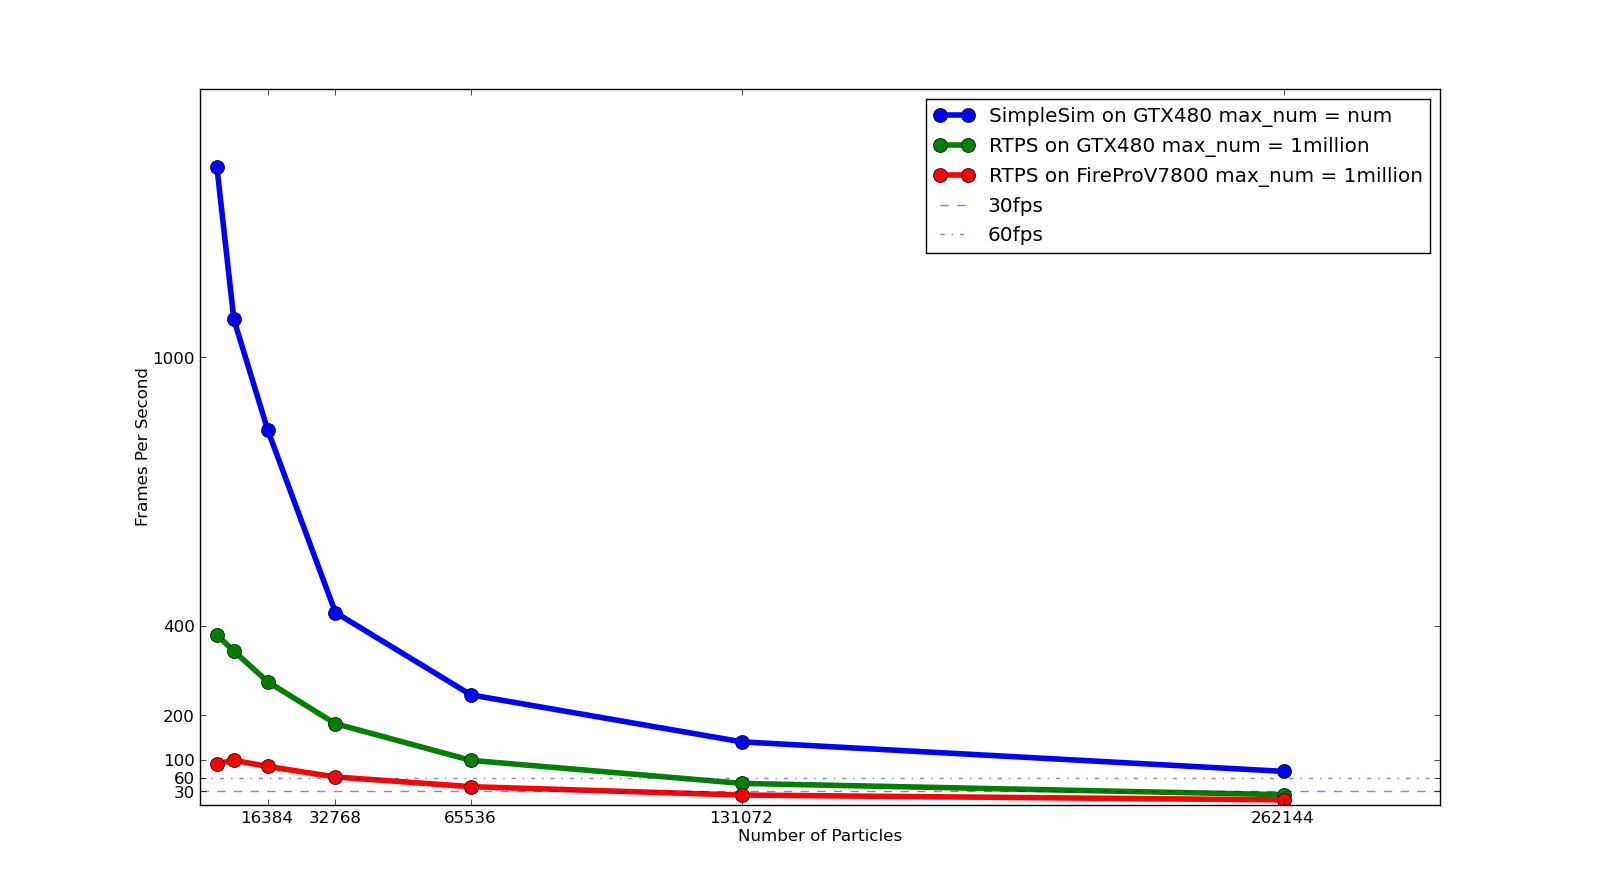
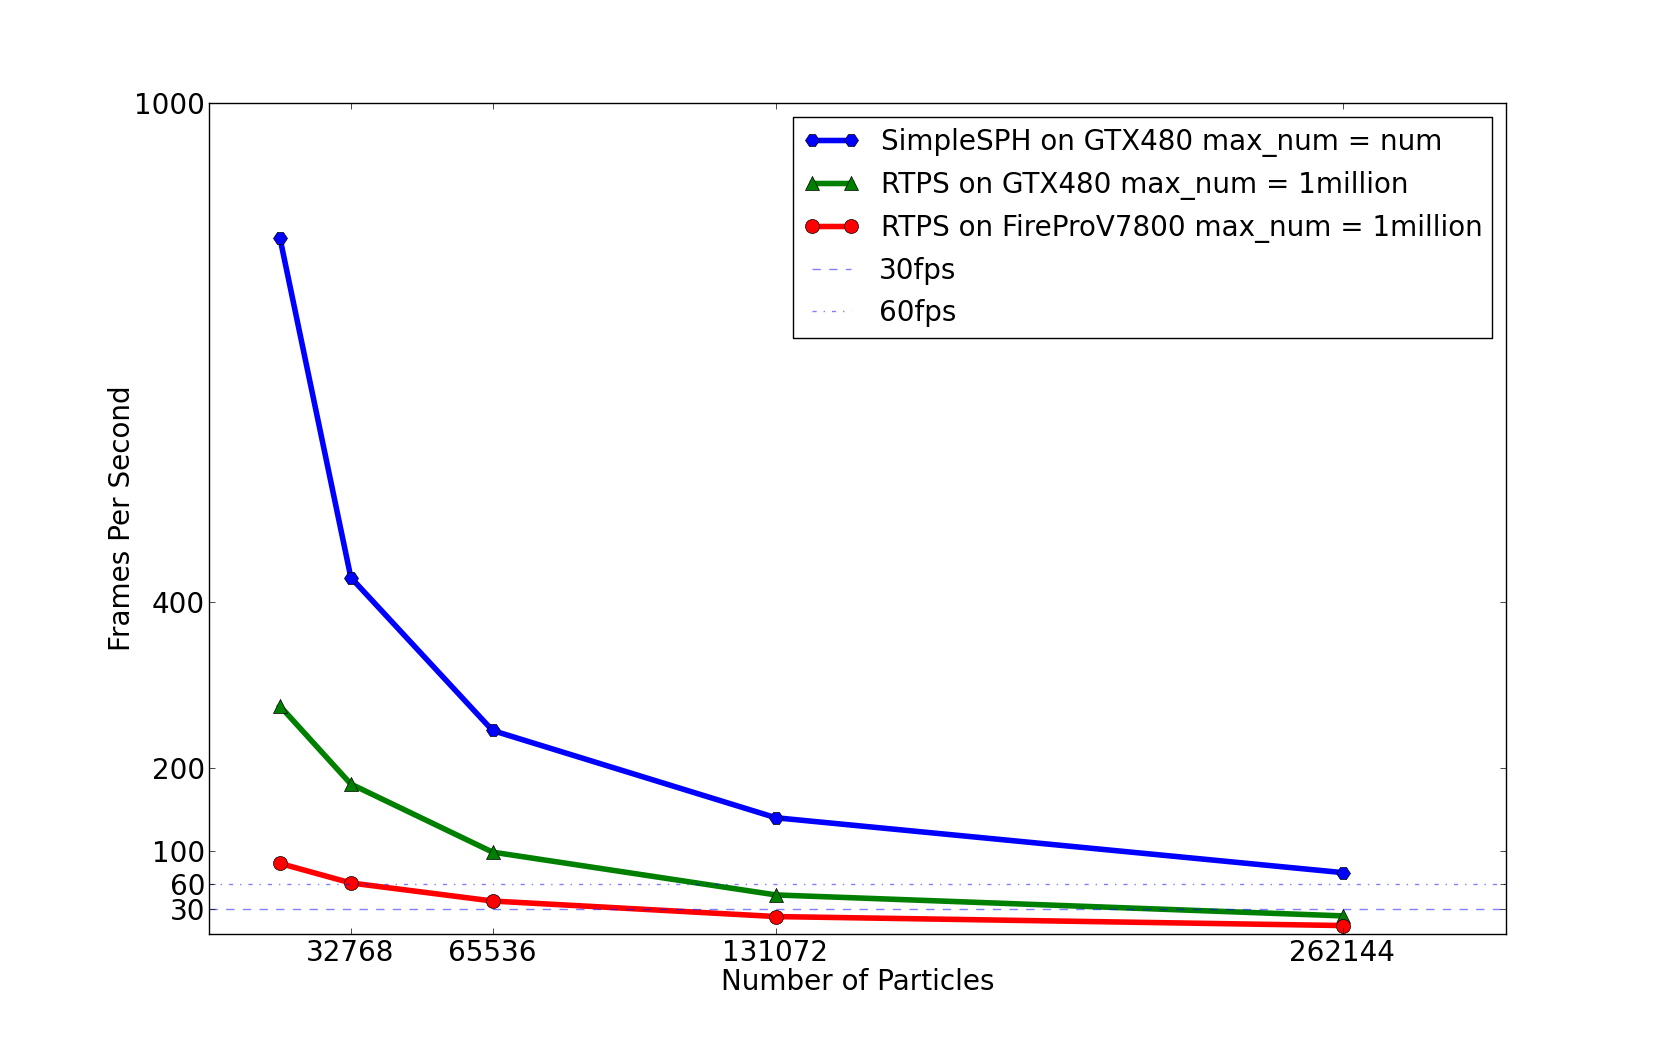
improved graphs for timing

diff --git a/fsutemplate/timings/graph.py b/fsutemplate/timings/graph.py
@@ -2,6 +2,25 @@
 import pickle
 import pylab
 
+from pylab import arange,pi,sin,cos,sqrt
+fig_width_pt = 1200 # Get this from LaTeX using \showthe\columnwidth
+inches_per_pt = 1.0/72.27               # Convert pt to inch
+golden_mean = (sqrt(5)-1.0)/2.0         # Aesthetic ratio
+fig_width = fig_width_pt*inches_per_pt  # width in inches
+fig_height = fig_width*golden_mean      # height in inches
+fig_size =  [fig_width,fig_height]
+params = {'backend': 'WXAgg',
+          'axes.labelsize': 20,
+          'text.fontsize': 20,
+          'legend.fontsize': 20,
+          'xtick.labelsize': 20,
+          'ytick.labelsize': 20,
+          #'text.usetex': True,
+          'figure.figsize': fig_size}
+pylab.rcParams.update(params)
+
+
+
 def ms2fps(ms):
     return 1000./ms
 
@@ -38,21 +57,22 @@ for ms in ati_mill_timings["Update loop"]:
     ati_mill_rtps_fps += [ms2fps(ms)]
 
 
-fps = True 
-nv_kernel = False 
-nv_ati_neighbors = False 
-nv_neighbors = False
+fps = False#True 
+nv_kernel = False#True 
+nv_ati_neighbors = True 
+nv_neighbors = False 
 
 
-num_ticks = [16384, 32768, 65536, 131072, 262144]
+#num_ticks = [16384, 32768, 65536, 131072, 262144]
+num_ticks = [32768, 65536, 131072, 262144]
 
 if fps:
     fps_ticks = [30, 60, 100, 200, 400, 1000]
     krog_fps = [1424, 1084, 837, 429, 245, 140, 74]
-    pylab.figure(0)
-    pylab.plot(nv_nums, krog_fps, 'o-', linewidth=4, markersize=10, label='SimpleSim on GTX480 max_num = num')
-    pylab.plot(nv_nums, nv_rtps_fps, 'o-', linewidth=4, markersize=10, label='RTPS on GTX480 max_num = num')
-    pylab.plot(nv_nums, ati_rtps_fps, 'o-', linewidth=4, markersize=10, label='RTPS on FireProV7800 max_num = num')
+    fig = pylab.figure(0)
+    pylab.plot(nv_nums[2:], krog_fps[2:], 'H-', linewidth=4, markersize=10, label='SimpleSPH on GTX480 max_num = num')
+    pylab.plot(nv_nums[2:], nv_rtps_fps[2:], '^-', linewidth=4, markersize=10, label='RTPS on GTX480 max_num = num')
+    pylab.plot(nv_nums[2:], ati_rtps_fps[2:], 'o-', linewidth=4, markersize=10, label='RTPS on FireProV7800 max_num = num')
 
     pylab.axhline(30, linestyle='--', alpha=.5, label='30fps')
     pylab.axhline(60, linestyle='-.', alpha=.5, label='60fps')
@@ -65,11 +85,13 @@ if fps:
     pylab.xticks(num_ticks, num_ticks)
     pylab.yticks(fps_ticks, fps_ticks)
 
+    #fig
+
 
     pylab.figure(1)
-    pylab.plot(nv_nums, krog_fps, 'o-', linewidth=4, markersize=10, label='SimpleSim on GTX480 max_num = num')
-    pylab.plot(nv_nums, nv_mill_rtps_fps, 'o-', linewidth=4, markersize=10, label='RTPS on GTX480 max_num = 1million')
-    pylab.plot(nv_nums, ati_mill_rtps_fps, 'o-', linewidth=4, markersize=10, label='RTPS on FireProV7800 max_num = 1million')
+    pylab.plot(nv_nums[2:], krog_fps[2:], 'H-', linewidth=4, markersize=10, label='SimpleSPH on GTX480 max_num = num')
+    pylab.plot(nv_nums[2:], nv_mill_rtps_fps[2:], '^-', linewidth=4, markersize=10, label='RTPS on GTX480 max_num = 1million')
+    pylab.plot(nv_nums[2:], ati_mill_rtps_fps[2:], 'o-', linewidth=4, markersize=10, label='RTPS on FireProV7800 max_num = 1million')
 
     pylab.axhline(30, linestyle='--', alpha=.5, label='30fps')
     pylab.axhline(60, linestyle='-.', alpha=.5, label='60fps')
@@ -179,12 +201,33 @@ if nv_ati_neighbors:
 
 
     
-    pylab.figure(4)
-    pylab.pie(nv_pie, labels=keys)
-    pylab.figure(5)
-    pylab.pie(ati_pie, labels=keys)
-        #pylab.pie(ati_timings, labels='AMD')
+    fig = pylab.figure(4)#, figsize=(8,12))
+    #ax = pylab.axes([0.1, 0.1, 0.8, 0.8])
+    bigAxes = pylab.axes(frameon=False)     # hide frame
+    pylab.xticks([])                        # don't want to see any ticks on this axis
+    pylab.yticks([])
+    pylab.subplots_adjust(bottom=.1, left=.4, right=.6, top=.94, hspace=.5)
+
+    nvp = fig.add_subplot(2,1,1)
+    atip = fig.add_subplot(2, 1, 2)#, sharex=nvp, sharey=nvp)
+
+    #pylab.pie(nv_pie, labels=keys, autopct='%1.1f%%', shadow=False)
+    #pylab.pie(nv_pie, labels=keys, autopct='%1.1f%%', shadow=False)
+    nvp.pie(nv_pie, labels=keys, autopct='%1.1f%%', shadow=False, colors=['c','g','r'])
+    #pylab.title('NVIDIA', bbox={'facecolor':'0.8', 'pad':5})
+    nvp.text(-.5, -1.6, "NVIDIA", fontsize="30")
+
+    #pylab.figure(5, figsize=(6,6))
+    #ax = pylab.axes([0.1, 0.1, 0.8, 0.8])
+    #pylab.pie(ati_pie, labels=keys, autopct='%1.1f%%', shadow=False)
+    #pylab.pie(ati_pie, labels=keys, autopct='%1.1f%%', shadow=False)
+    atip.pie(ati_pie, labels=keys, autopct='%1.1f%%', shadow=False, colors=['c','g','r'])
+    #atip.title('ATI', bbox={'facecolor':'0.8', 'pad':5})
+    atip.text(-.3, -1.6, "ATI", fontsize="30")
+    #pylab.pie(ati_timings, labels='AMD')
         
+    #atip.legend(loc="lower center")
+
     #for key in keys:
         #pylab.plot(nv_nums, nv_timings[key], 'o-', label='NVIDIA ' + key)
         #pylab.plot(nv_nums, ati_timings[key], 's--', label='AMD' + key)

diff --git a/fsutemplate/chapter_results.tex b/fsutemplate/chapter_results.tex
@@ -36,7 +36,8 @@ milliseconds a lower number is preferred.
 
 \begin{figure}[!htc]
  		\centering
-        \includegraphics[scale=0.45]{figures/maxnum_eq_num_fps.png}
+        %\includegraphics[scale=0.45]{figures/maxnum_eq_num_fps.png}
+        \includegraphics[width=\columnwidth]{figures/maxnum_eq_num_fps.png}
         \caption{ {\footnotesize Performance of RTPS compared with SimpleSPH. Here the maximum
         particle setting for RTPS is the same as the number of particles used
         for timing}}
@@ -60,14 +61,16 @@ used as can be seen in Figure \ref{fig:fps_1mill}.
 
 \begin{figure}[!htc]
  		\centering
-        \includegraphics[scale=0.45]{figures/maxnum_eq_1mill_fps.png}
+        %\includegraphics[scale=0.45]{figures/maxnum_eq_1mill_fps.png}
+        \includegraphics[width=\columnwidth]{figures/maxnum_eq_1mill_fps.png}
         \caption{ {\small Performance of RTPS with the maximum number of particles
         setting equal to 1 million. The timings for RTPS are collected using
         the given number of particles.}}
         \label{fig:fps_1mill}
 \end{figure}
 
-\pagebreak
+%\pagebreak
+\newpage
 One sees from Figure \ref{fig:kernel_time} that the Density and Force calculations are by far
 the most expensive routines. These routines have the most memory accesses, and
 the more neighbors that each particle must calculate, the more memory accesses
@@ -78,7 +81,8 @@ contributes a non-trivial amount of time to the computation.
 
 \begin{figure}[!htc]
  		\centering
-		\includegraphics[scale=0.4]{figures/nv_kernel_num.png}
+		%\includegraphics[scale=0.4]{figures/nv_kernel_num.png}
+		\includegraphics[width=\columnwidth]{figures/nv_kernel_num.png}
         \caption{ GPU timings for each kernel }
         \label{fig:kernel_time}
 \end{figure}
@@ -89,16 +93,18 @@ negligible effect on the cost. This is most likely due to the overhead of
 launching the kernels overshadowing the small amount of memory accesses and
 computations required by such a small amount of particles. 
 
-\pagebreak
+%\pagebreak
+%\newpage
 
 Figure \ref{fig:pies} shows the proportion of time taken by the most expensive
 kernels on each video card using 262144 particles. The proportions are similar
 for each card, with the sort more expensive on the AMD hardware.
 
-\begin{figure}[!htc]
- 		%\centering
-        \subfloat[NVIDIA]{\label{fig:nv_pie}\includegraphics[scale=0.4]{figures/nv_pie.png}}
-        \\ \subfloat[AMD]{\label{fig:ati_pie}\includegraphics[scale=0.4]{figures/ati_pie.png}}
+\begin{figure}[!htbp]
+ 		\centering
+		\includegraphics[width=\columnwidth]{figures/nv_ati_pie.png}
+        %\subfloat[NVIDIA]{\label{fig:nv_pie}\includegraphics[scale=0.4]{figures/nv_pie.png}}
+        %\\ \subfloat[AMD]{\label{fig:ati_pie}\includegraphics[scale=0.4]{figures/ati_pie.png}}
         \caption{ Proportion of GPU timings for the most expensive kernels on each card }
         \label{fig:pies}
 \end{figure}
@@ -106,8 +112,12 @@ for each card, with the sort more expensive on the AMD hardware.
 \toi{use different line styles as well, dotted, dashed etc}
 \toi{fix pie charts by putting percentages in the graphs or captions}
 
-\pagebreak
+%\pagebreak
 \clearpage
+\newpage
+
+
+
 
 \section{Data Structures}
 The data structures used on the GPU are given as follows:
